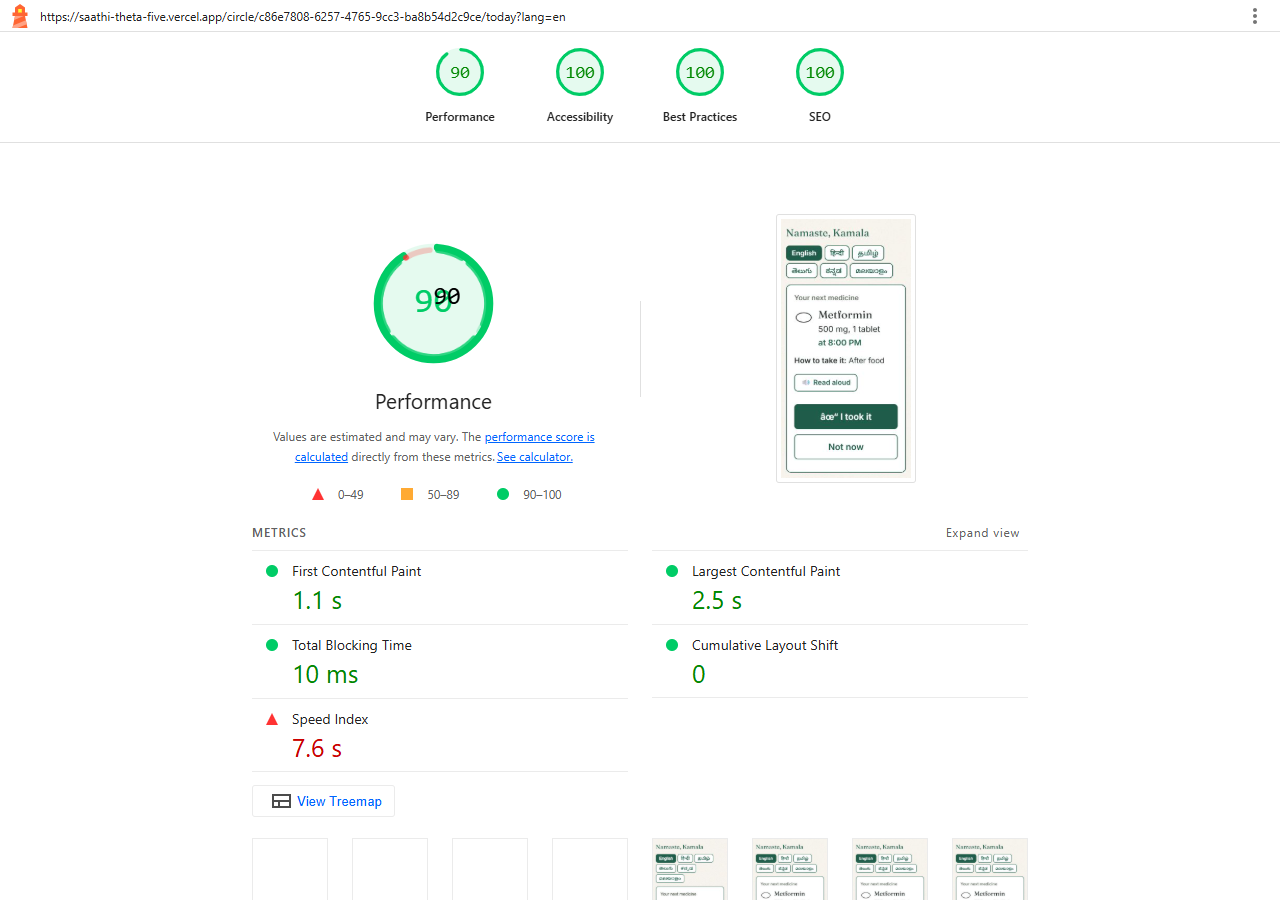
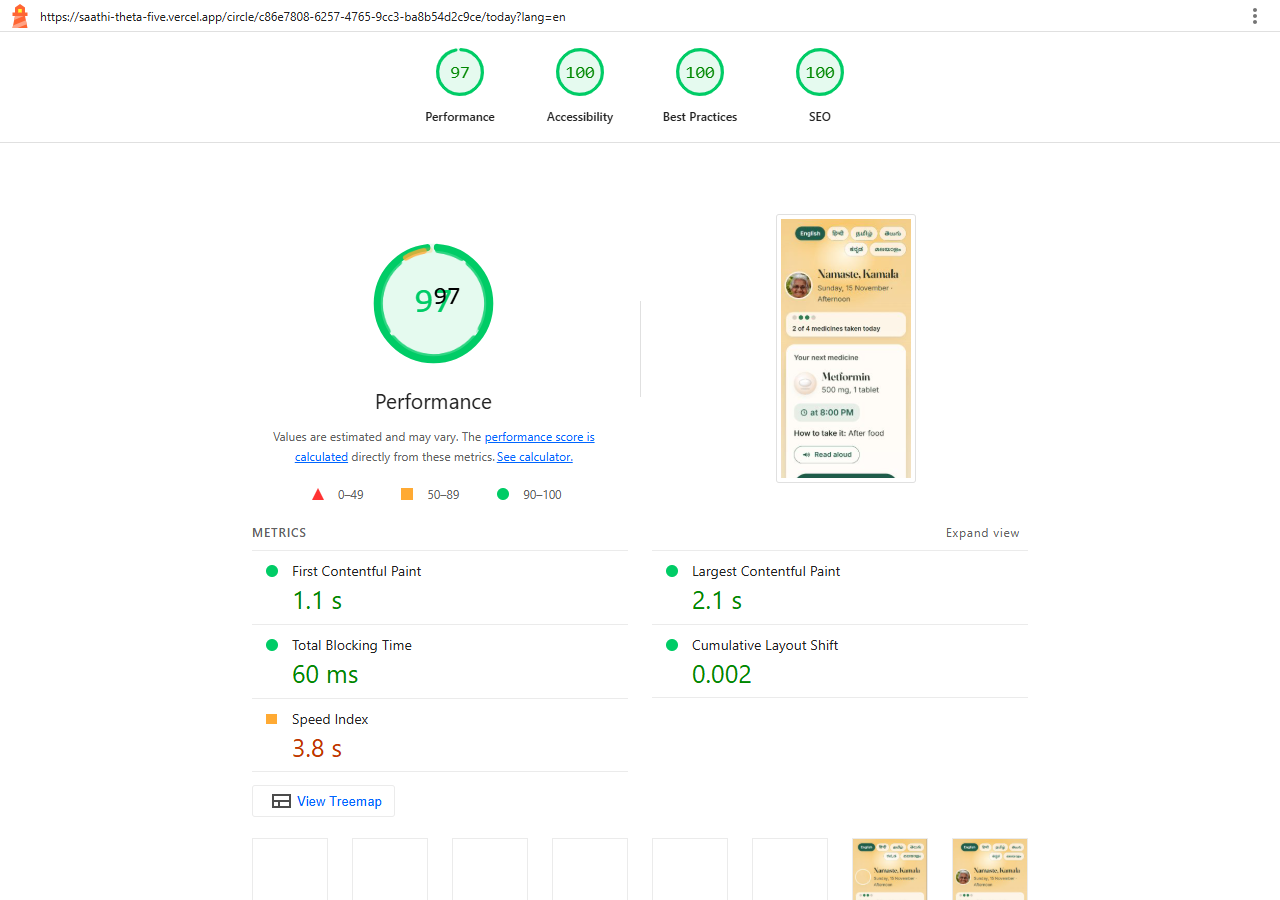
Elder view + dashboard headings use Fraunces opsz 36 (sturdier strokes for legibility); final screens in docs/screens; refreshed Lighthouse screenshots

diff --git a/src/components/ElderToday.tsx b/src/components/ElderToday.tsx
@@ -75,7 +75,7 @@ export function ElderDoseCard({ dose, lang, readOnly, helperLine }: { dose: Next
           <span className="block w-12 sm:w-16 [&_svg]:!h-auto [&_svg]:!w-full"><Pill look={dose.pillLook} size={64} /></span>
         </span>
         <div className="min-w-0">
-          <p className="font-serif text-[36px] font-semibold leading-[1.05] [overflow-wrap:anywhere] sm:text-[56px]" style={{ fontVariationSettings: '"opsz" 144, "SOFT" 100' }}>
+          <p className="font-serif text-[36px] font-semibold leading-[1.05] [overflow-wrap:anywhere] sm:text-[56px]" style={{ fontVariationSettings: '"opsz" 36' }}>
             {dose.name}
           </p>
           <p className="mt-1 text-[24px] text-ink-soft">{dose.dose}</p>

diff --git a/src/app/circle/[id]/page.tsx b/src/app/circle/[id]/page.tsx
@@ -109,7 +109,7 @@ export default async function CirclePage({ params, searchParams }: { params: Pro
               </span>
             )}
             <div>
-              <h1 id="who-h" className="text-[2.5rem] font-medium leading-none text-white sm:text-[3.5rem]" style={{ fontVariationSettings: '"opsz" 144, "SOFT" 100' }}>
+              <h1 id="who-h" className="text-[2.5rem] font-medium leading-none text-white sm:text-[3.5rem]" style={{ fontVariationSettings: '"opsz" 36' }}>
                 {elder.display_name}
                 {elder.age ? <span className="text-[#9FB8AC]">, {elder.age}</span> : null}
               </h1>

diff --git a/src/app/circle/[id]/today/page.tsx b/src/app/circle/[id]/today/page.tsx
@@ -96,7 +96,7 @@ export default async function ElderTodayPage({ params, searchParams }: { params:
             </span>
           )}
           <div className="min-w-0">
-            <h1 className={`text-[38px] font-semibold leading-tight sm:text-[48px] ${sky}`} style={{ fontVariationSettings: '"opsz" 144, "SOFT" 100' }}>
+            <h1 className={`text-[38px] font-semibold leading-tight sm:text-[48px] ${sky}`} style={{ fontVariationSettings: '"opsz" 36' }}>
               {t(lang, "greeting", { name: elder.display_name })}
             </h1>
             <p className={`mt-1 text-[22px] ${skySoft}`}>
